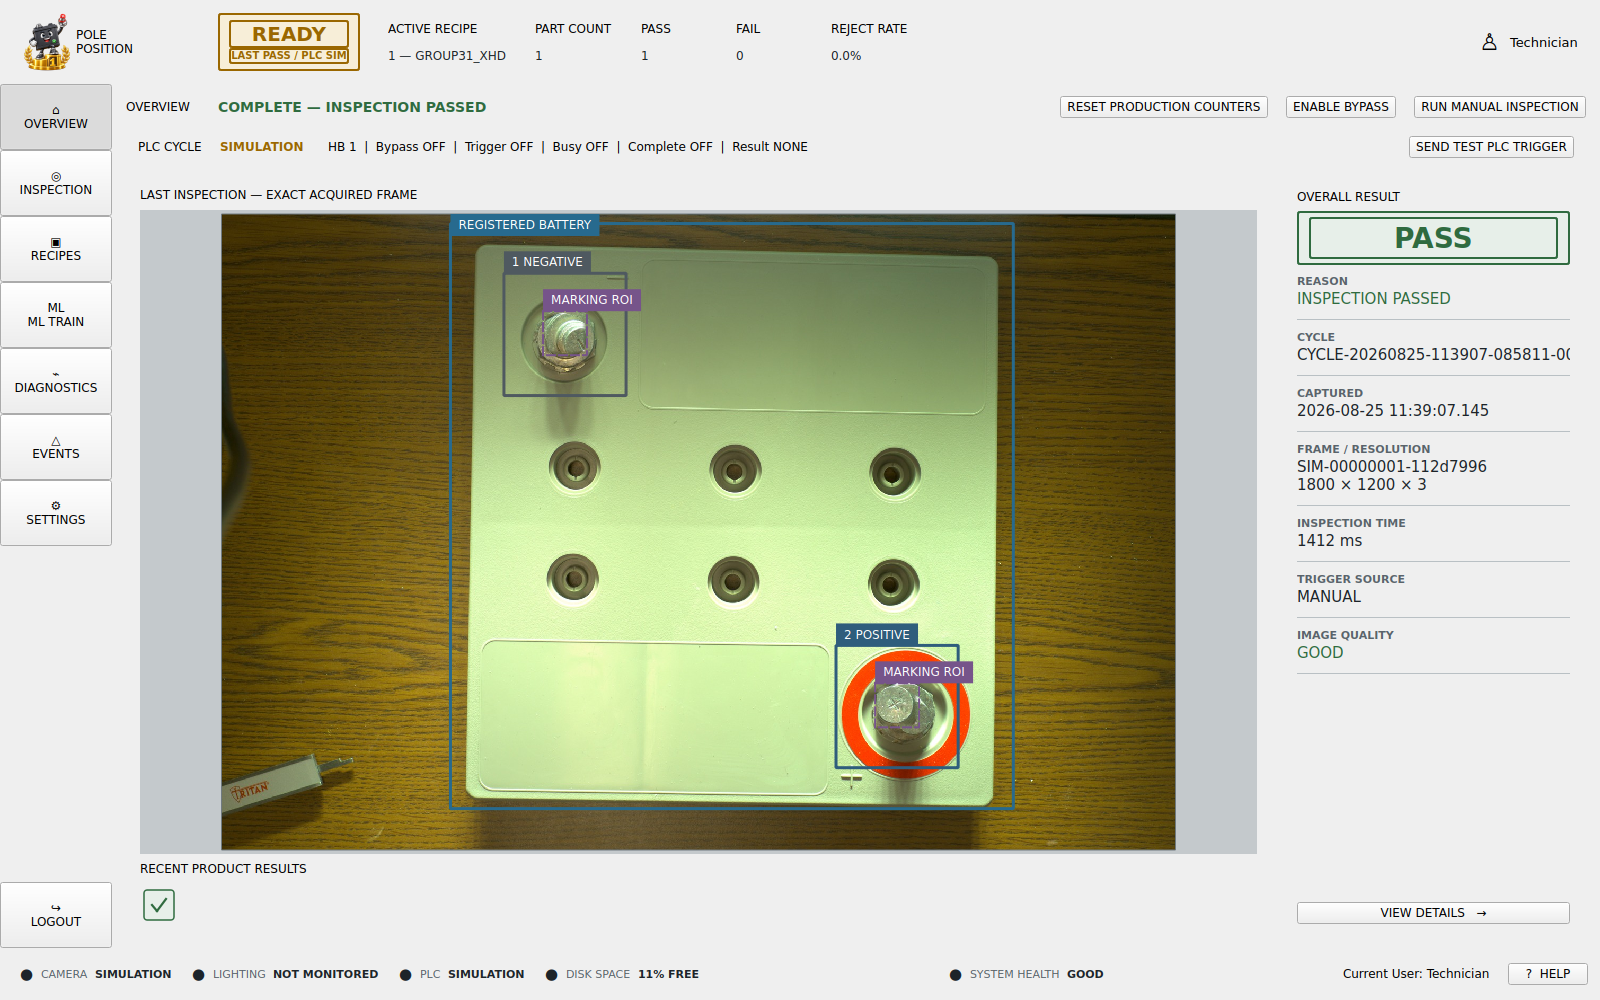
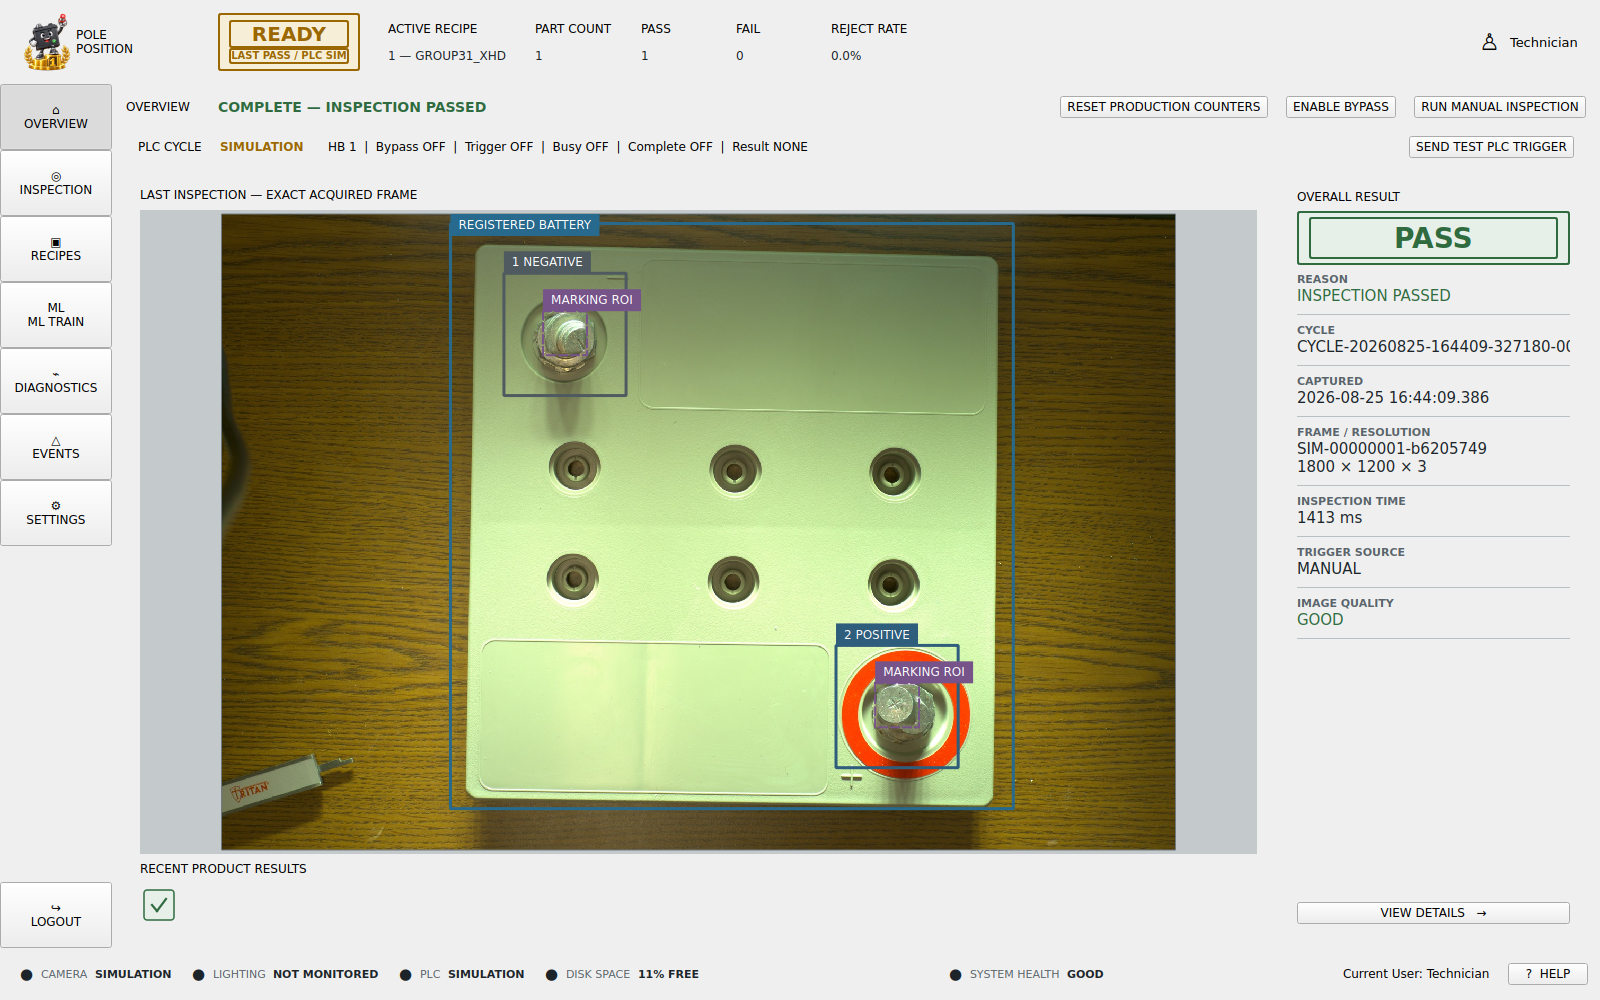
Make the station pages fit instead of scroll
v0.24.0 put every page behind a scroll view, because several pages asked for
more height than the station's minimum window guarantees and a layout denied
room compresses its children until wrapped text draws over the controls
beneath it. That traded an overlap for a scroll bar. Neither belongs on a
station page.

Measured against the 624px a page actually gets at the minimum window:
Overview needed 626, Recipes 639, ML training 702. Three pages, and the
other four had room to spare.

- ML training was the worst and not where it looked. A stacked widget is as
  tall as its tallest page, so the review step's two rows of thumbnails put
  a scroll bar on the capture step, which fits on its own. Review now shows
  four thumbnails in one row: 702 -> 584, and each crop gets about 265px of
  width instead of 180, which makes a stamp easier to judge.
- Overview and Recipes are stacks of caption-and-value pairs, seven and
  eleven of them. Tightening the padding inside that pair covers what both
  were over by: 626 -> 591 and 639 -> 584.
- A note that wrapped to four lines at the minimum width was shortened, and
  a scope line that was clipped at the panel edge now wraps.

Every page now fits with 33 to 48px spare. The scroll container, its
stylesheet, and the rule that permitted it are removed; the original rule
forbidding scroll areas in the HMI is restored, and the test that measures
compression directly keeps the pages honest.
[…]

Changed region(s): [[0.8125, 0.279, 1.0, 0.682]]

diff --git a/tests/test_hmi_style.py b/tests/test_hmi_style.py
@@ -65,38 +65,27 @@ def test_pole_position_brand_and_icon_are_wired_into_the_hmi() -> None:
     assert image_count >= 6
 
 
-def test_scrolling_exists_only_as_the_sanctioned_overflow_container() -> None:
-    """Station pages fit and paginate. Exactly one exception is allowed.
+def test_primary_ui_contains_no_scroll_area() -> None:
+    """Station pages fit their screen. They do not scroll, ever.
 
-    The rule this replaces forbade QScrollArea outright, and it was the right
-    instinct: an operator should never have to hunt for a control that is off
-    screen. It could not hold in practice. The window's minimum is shorter than
-    several pages need, and Windows display scaling makes the workspace smaller
-    still -- a 4K panel at 150% reports 1280x720. A layout denied the room it
-    needs does not refuse; it compresses its children until wrapped text and
-    image panels draw over each other, which is worse than a scroll bar and far
-    harder to notice.
+    An operator must never have to hunt for a control that is off screen, and a
+    scroll bar on a station page is a design fault reported as a feature. This
+    was briefly relaxed to a sanctioned overflow container, because several
+    pages did not fit the station's minimum window and a layout denied room
+    compresses its children until wrapped text draws over the controls beneath
+    it -- overlap being worse than a scroll bar, and harder to notice.
 
-    So scrolling is permitted only through VerticalScrollArea, only as the
-    container MainWindow puts every page behind, and it shows nothing at all
-    when the page fits -- which on a correctly specified station is always.
-    Pages themselves still must not scroll their own content: a page that needs
-    to scroll on a normal workspace is a page to redesign, and
-    test_no_page_is_compressed_at_any_workspace_size measures that directly.
+    Both were symptoms of the same thing: pages asking for more height than the
+    window guarantees. The pages were made to fit instead, and
+    test_no_page_is_compressed_at_any_workspace_size measures that they still
+    do. A page that needs to scroll is a page to redesign.
     """
 
-    for path in sorted(UI.rglob("*.py")):
-        source = path.read_text(encoding="utf-8")
-        if "QScrollArea" not in source and "VerticalScrollArea" not in source:
-            continue
-        if path.name == "widgets.py":
-            continue
-        assert "QScrollArea" not in source, (
-            f"{path.name} builds its own scroll area; use VerticalScrollArea"
-        )
-        assert path.name == "main_window.py", (
-            f"{path.name} scrolls its own content; only MainWindow may scroll a page"
-        )
+    python_sources = "\n".join(
+        path.read_text(encoding="utf-8")
+        for path in UI.rglob("*.py")
+    )
+    assert "QScrollArea" not in python_sources
 
 
 def test_scrollbar_chrome_is_suppressed() -> None:
@@ -207,7 +196,10 @@ def test_ml_training_is_a_guided_scrollbar_free_hmi_page() -> None:
     assert "CAPTURE MULTIPLE TERMINAL TOPS FROM ONE FRAME" in source
     assert "ACTIVE ROI — EXACT ML INPUT" not in source
     assert "self.crop_preview" not in source
-    assert "targets are guidance only" in source.lower()
+    # The page must still say targets do not gate training. The wording was
+    # shortened so the note wraps to two lines at the station's minimum width.
+    assert "targets are guidance" in source.lower()
+    assert "never block training" in source.lower()
     assert "crop_confirm" not in source
     assert "I verified this crop excludes the red ring" not in source
     assert "REVIEW / CORRECT TRAINING DATA" in source

diff --git a/battery_inspector/ui/widgets.py b/battery_inspector/ui/widgets.py
@@ -9,7 +9,6 @@ from PySide6.QtWidgets import (
     QHBoxLayout,
     QLabel,
     QPushButton,
-    QScrollArea,
     QSizePolicy,
     QVBoxLayout,
     QWidget,
@@ -35,41 +34,6 @@ from battery_inspector.ui.palette import (
 
 # Re-export the state colors for existing UI modules.
 MUTED = TEXT_MUTED
-
-
-class VerticalScrollArea(QScrollArea):
-    """A vertical scroll container that never squeezes what it holds.
-
-    When a layout runs out of vertical room, Qt compresses its children below
-    the size each one asked for, and widgets whose height depends on their width
-    -- wrapped text above all -- end up drawn over their neighbours. The page
-    that looked right on the monitor it was designed on overlaps itself on a
-    shorter one. Windows display scaling makes that common rather than
-    exceptional: a 3840x2160 monitor at 150% offers a 1280x720 workspace, less
-    height than this application's own minimum window.
-
-    Scrolling instead of compressing keeps every element at its designed size on
-    every monitor and at every scale factor, which is the only way a station
-    screen can be relied on not to shift.
-    """
-
-    def __init__(self, content: QWidget, parent: QWidget | None = None) -> None:
-        super().__init__(parent)
-        # The global stylesheet hides scroll bars, because a station page is
-        # meant to fit its screen and paginate rather than scroll. This object
-        # name restores a visible bar for these panels only, so that when the
-        # workspace really is too short the operator can see that there is more
-        # below instead of silently losing it.
-        self.setObjectName("ScrollPanel")
-        self.setWidget(content)
-        self.setWidgetResizable(True)
-        self.setFrameShape(QFrame.Shape.NoFrame)
-        # Vertical only. A horizontal bar would mean content narrower than the
-        # panel, which is a layout fault to fix rather than to scroll past.
-        self.setHorizontalScrollBarPolicy(Qt.ScrollBarPolicy.ScrollBarAlwaysOff)
-        self.setVerticalScrollBarPolicy(Qt.ScrollBarPolicy.ScrollBarAsNeeded)
-        self.viewport().setAutoFillBackground(False)
-        content.setAutoFillBackground(False)
 
 
 class PanelFrame(QFrame):
@@ -207,8 +171,13 @@ class LabeledValue(QWidget):
     def __init__(self, caption: str, value: str = "—", parent: QWidget | None = None) -> None:
         super().__init__(parent)
         layout = QVBoxLayout(self)
-        layout.setContentsMargins(0, 3, 0, 3)
-        layout.setSpacing(2)
+        # Tight on purpose. Overview stacks seven of these and Recipes eleven,
+        # so the padding around a caption and its value is what decides whether
+        # those pages fit the station's minimum window. The pair still reads as
+        # a pair: the caption is small, muted, and uppercase against a larger
+        # value, which separates them without needing space to do it.
+        layout.setContentsMargins(0, 1, 0, 1)
+        layout.setSpacing(1)
         self.caption = QLabel(caption.upper())
         self.caption.setProperty("muted", True)
         self.caption.setStyleSheet(f"font-size: 11px; font-weight: 700; color: {TEXT_MUTED};")

diff --git a/battery_inspector/ui/pages/ml_training.py b/battery_inspector/ui/pages/ml_training.py
@@ -55,7 +55,13 @@ from battery_inspector.ui.widgets import (
 # Review-grid geometry. These are floors, not fixed sizes: the cards grow with
 # the workspace and stop shrinking at the point where a terminal-top crop stops
 # being judgeable and the controls under it stop being separable.
-REVIEW_GRID_COLUMNS = 3
+# One row, four cards. Two rows of thumbnails made the review step the tallest
+# step in the wizard, and a stacked widget is as tall as its tallest page -- so
+# the capture step, which fits comfortably on its own, inherited the review
+# step's overflow. Four across also gives each crop about 265px of width at the
+# station's minimum window, half again what three-across-two-rows allowed, and
+# a terminal stamp is easier to judge larger.
+REVIEW_GRID_COLUMNS = 4
 REVIEW_CARD_MIN_WIDTH = 210
 REVIEW_CARD_MIN_HEIGHT = 200
 REVIEW_META_LINES = 2
@@ -583,15 +589,21 @@ class MlTrainingPage(QWidget):
         title = QLabel("REVIEW / CORRECT TRAINING DATA")
         title.setObjectName("PanelTitle")
         header_layout.addWidget(title)
+        # Kept to two lines at the station's minimum width. A wrapped label
+        # reports a minimum height for one line, so prose that wraps to four
+        # takes the extra out of whatever sits below it.
         note = QLabel(
-            "Review the persistent global terminal-top dataset before training. "
-            "Correct a class label or remove a bad crop here; you do not need to browse folders. "
-            "Collection targets are guidance only and never block training by themselves."
+            "Correct a class label or remove a bad crop before training. "
+            "Collection targets are guidance and never block training."
         )
         note.setWordWrap(True)
         note.setProperty("muted", True)
         header_layout.addWidget(note)
         self.review_scope = QLabel("Dataset scope will appear after samples are captured.")
+        # Wrapped rather than clipped. This line grows with the number of family
+        # tags, and at the station's minimum width it was being cut off at the
+        # panel edge with no indication that anything was missing.
+        self.review_scope.setWordWrap(True)
         self.review_scope.setProperty("muted", True)
         header_layout.addWidget(self.review_scope)
         root.addWidget(header)
@@ -616,7 +628,7 @@ class MlTrainingPage(QWidget):
         root.addLayout(filters)
 
         self._review_page_index = 0
-        self._review_page_size = 6
+        self._review_page_size = REVIEW_GRID_COLUMNS
         self._review_filtered_samples: list[dict[str, Any]] = []
         self.review_cards: list[dict[str, Any]] = []
         grid_host = QWidget()

diff --git a/battery_inspector/ui/main_window.py b/battery_inspector/ui/main_window.py
@@ -23,13 +23,7 @@ from battery_inspector.ui.pages.ml_training import MlTrainingPage
 from battery_inspector.ui.pages.overview import OverviewPage
 from battery_inspector.ui.pages.recipes import RecipesPage
 from battery_inspector.ui.pages.settings import SettingsPage
-from battery_inspector.ui.widgets import (
-    HealthItem,
-    MetricCard,
-    NavButton,
-    StatusPill,
-    VerticalScrollArea,
-)
+from battery_inspector.ui.widgets import HealthItem, MetricCard, NavButton, StatusPill
 
 
 class MainWindow(QMainWindow):
@@ -86,15 +80,7 @@ class MainWindow(QMainWindow):
             self.events_page,
             self.settings_page,
         ):
-            # Behind a scroll view, always. The station window's minimum is
-            # shorter than several of these pages need, so a layout short of
-            # room takes the shortfall out of whichever widgets will yield --
-            # wrapped text and image panels first -- and they draw over each
-            # other. How short depends on the monitor and, far more often, on
-            # the Windows scale factor: a 4K panel at 150% offers a 1280x720
-            # workspace. Scrolling the overflow keeps every element at the size
-            # it was laid out for on every screen.
-            self.stack.addWidget(VerticalScrollArea(page))
+            self.stack.addWidget(page)
 
         layout.addWidget(self._build_footer())
 
@@ -242,12 +228,10 @@ class MainWindow(QMainWindow):
         return footer
 
     def page_at(self, index: int) -> QWidget:
-        """The page itself, not the scroll view holding it."""
-
-        return self.stack.widget(index).widget()
+        return self.stack.widget(index)
 
     def current_page(self) -> QWidget:
-        return self.stack.currentWidget().widget()
+        return self.stack.currentWidget()
 
     def navigate(self, index: int) -> None:
         self.stack.setCurrentIndex(index)

diff --git a/docs/RELEASE_NOTES_v0.25.0.md b/docs/RELEASE_NOTES_v0.25.0.md
@@ -57,6 +57,34 @@ IF NOT BatteryVision.Complete THEN
 END_IF;
 ```
 
+## Station pages fit again, without scroll bars
+
+v0.24.0 put every page behind a scroll view because several pages asked for
+more height than the station's minimum window guarantees, and a layout denied
+room compresses its children until wrapped text draws over the controls
+beneath it. That traded an overlap for a scroll bar. Neither belongs on a
+station page: an operator should never have to hunt for a control that is off
+screen.
+
+The pages were made to fit instead, and the scroll views are gone.
+
+- The **ML training** page was the worst, and not where it looked. A stacked
+  widget is as tall as its tallest page, so the review step's two rows of
+  thumbnails put a scroll bar on the capture step, which fits comfortably on
+  its own. Review now shows four thumbnails in one row. Each crop gets about
+  265px of width at the minimum window instead of 180, which makes a stamp
+  easier to judge, at the cost of four samples per page rather than six.
+- **Overview** and **Recipes** are dominated by stacked caption-and-value
+  pairs -- seven and eleven of them. The padding inside that pair was reduced,
+  which is what those two pages were over by.
+- Two long notes that wrapped to four lines at the minimum width were
+  shortened, and a dataset scope line that was being clipped at the panel edge
+  now wraps.
+
+Every page now fits the station's minimum window with 33 to 48 pixels to
+spare. The rule forbidding scroll areas in the HMI is restored, and the test
+that measures layout compression directly is what keeps the pages honest.
+
 ## Documentation
 
 - `docs/PLC_INTERFACE.md` describes both result lifetimes, the edge rules, and
